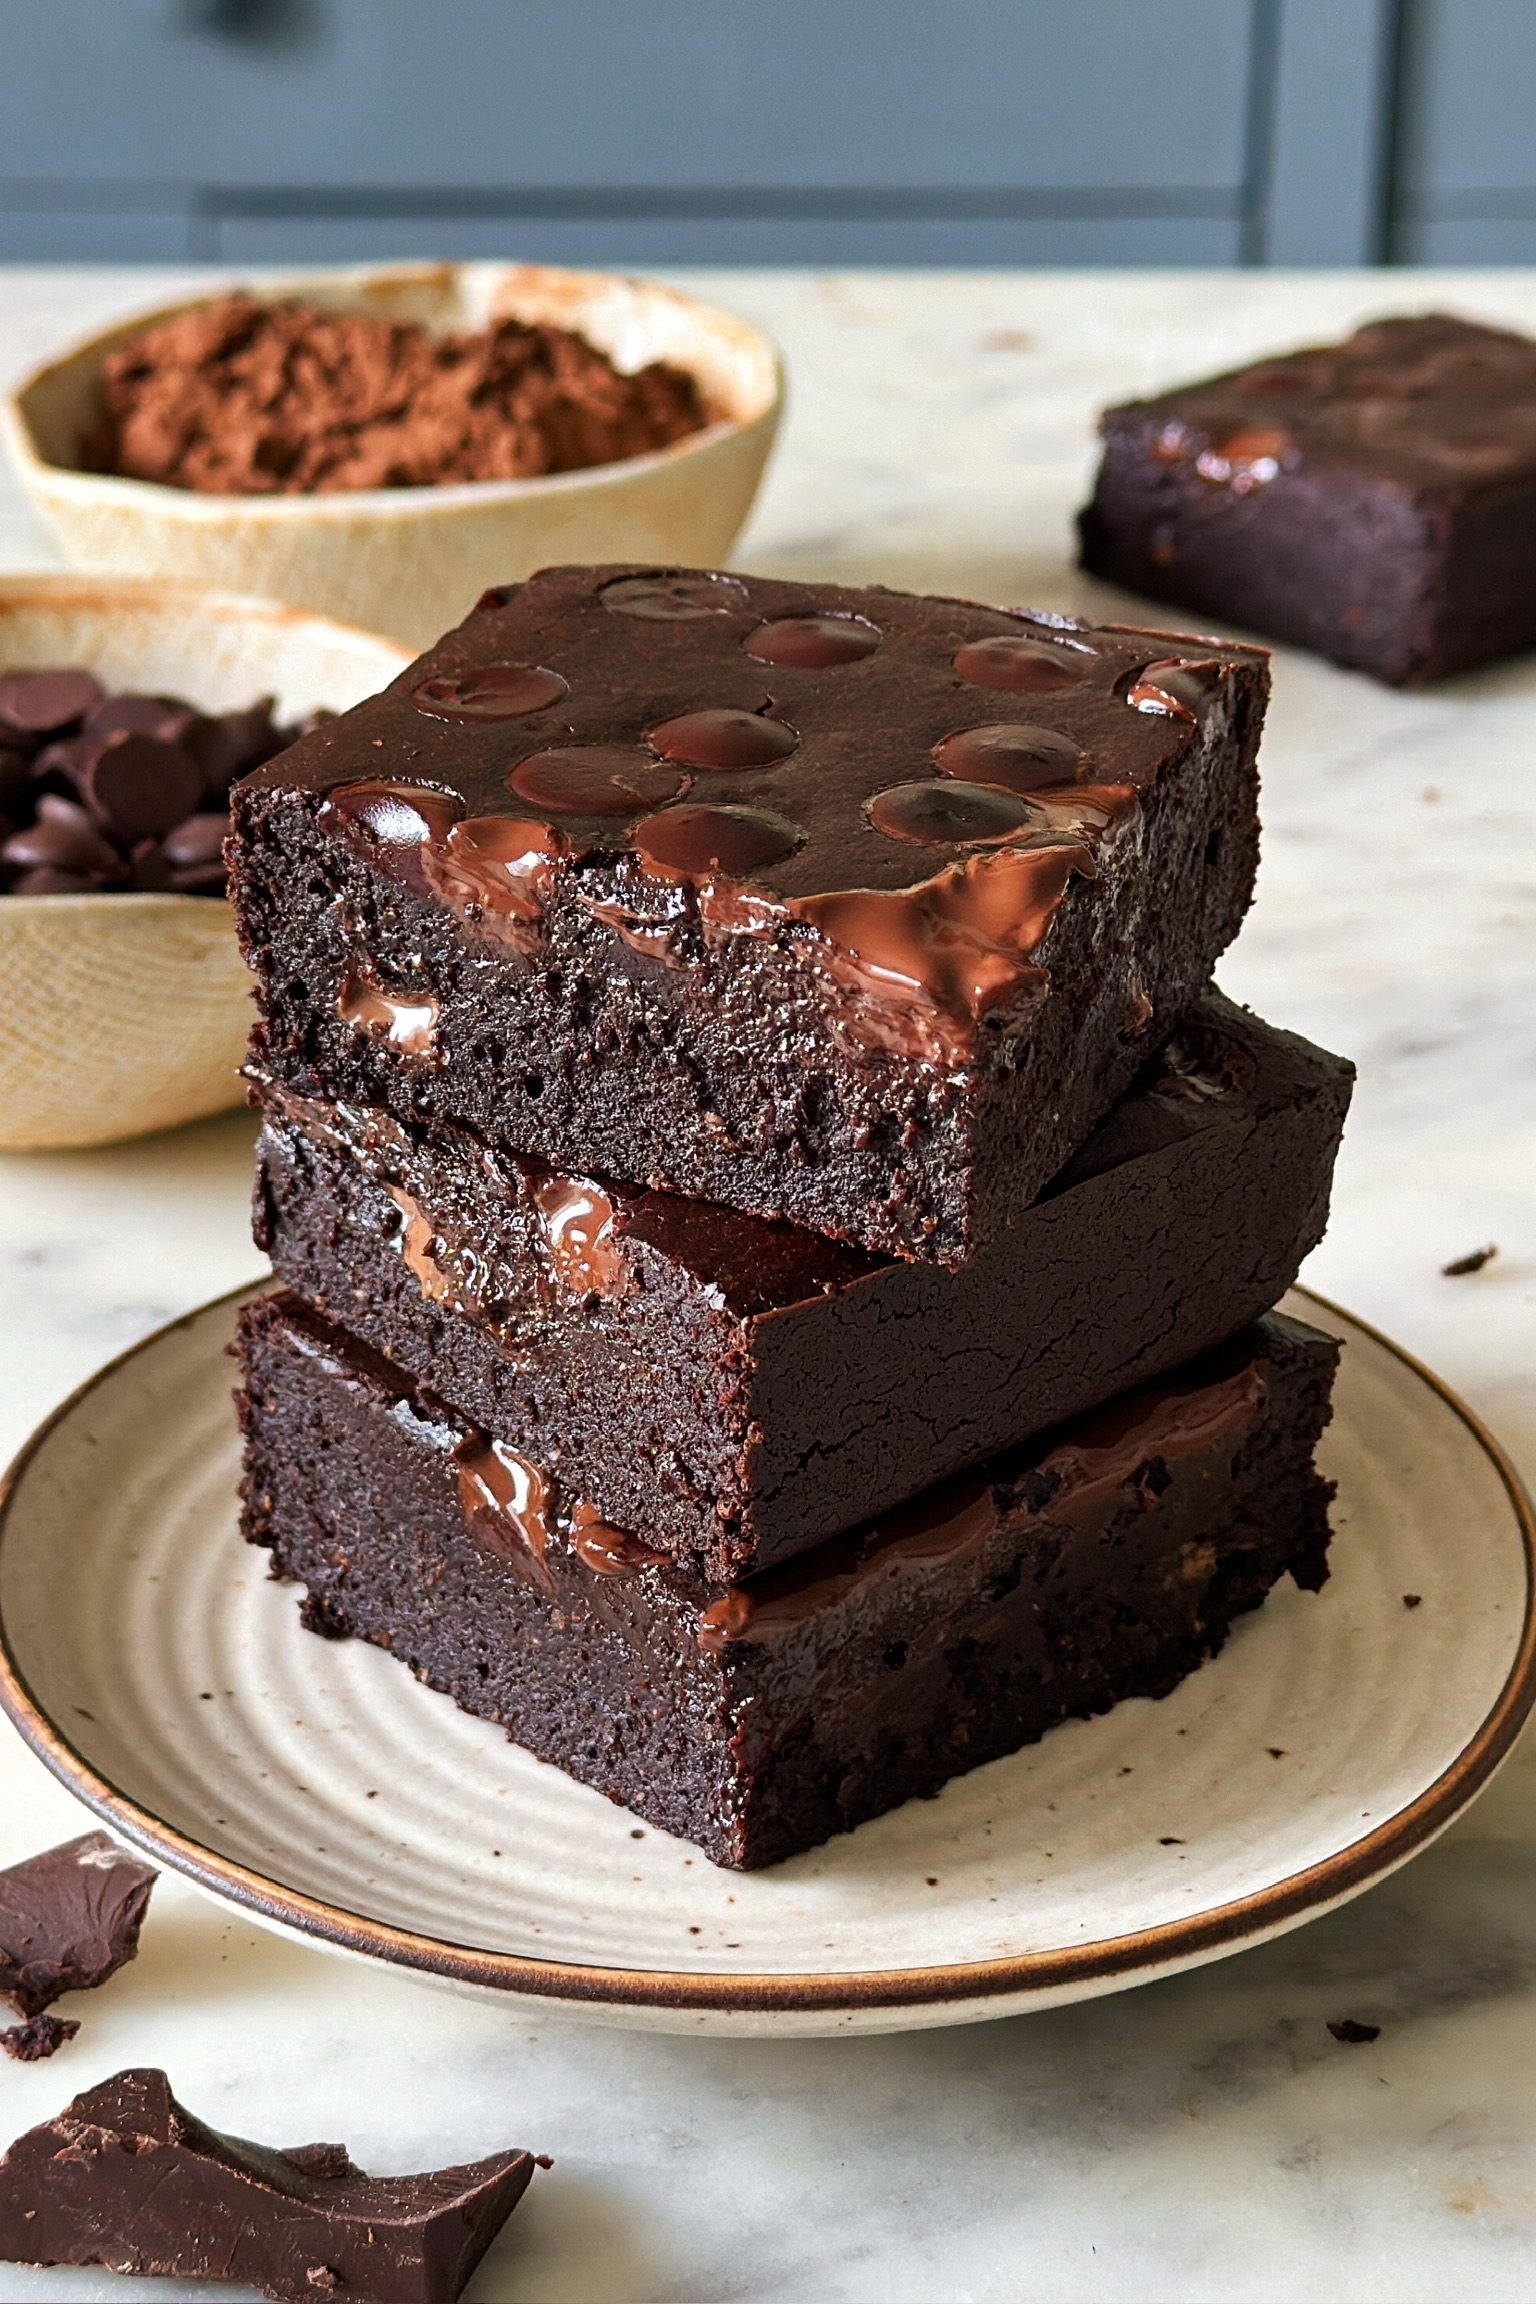
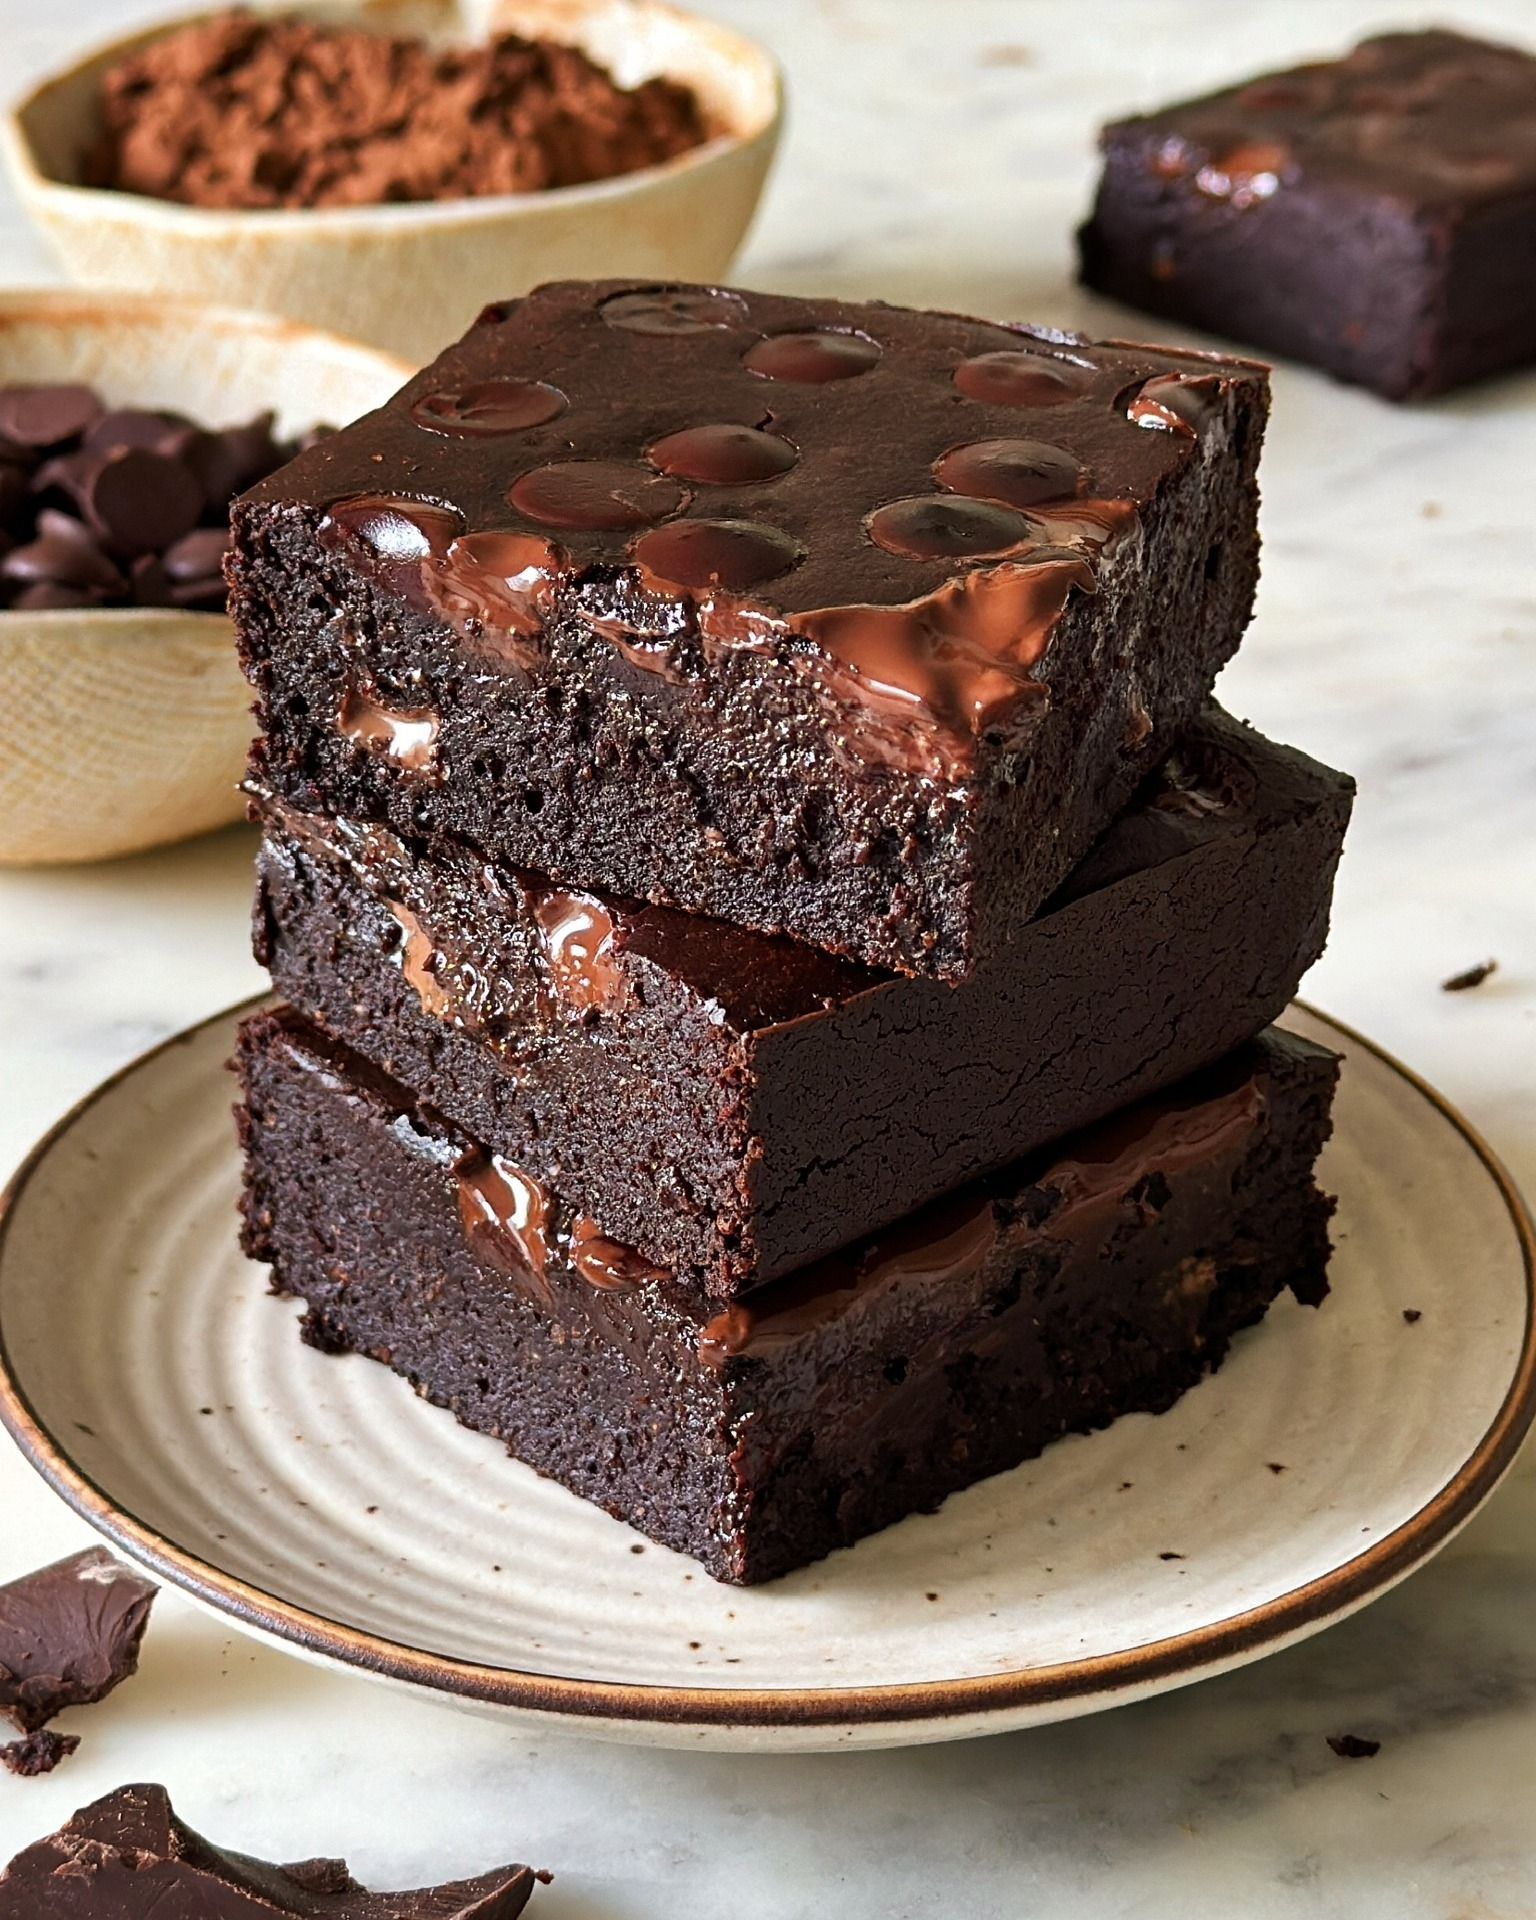
Add CSS

diff --git a/style.css b/style.css
@@ -1,0 +1,35 @@
+body {
+    font-family: Arial, Helvetica, sans-serif;
+    background-color: rgb(21, 6, 122);
+}
+#odin-recipes {
+    text-align: center;
+    font-size: 50px;
+    color: black;
+}
+#odin-recipes-bg {
+    background-color: rgb(154, 196, 245);
+    border-radius: 16px; /* Curves the background and corners */
+    overflow: hidden; /* Clips any inner content to the curved shape */
+    width: 400px;
+    margin: 0 auto;
+    margin-top: 50px;
+}
+#images {
+    text-align: center;
+}
+#images img {
+    margin: 50px 40px;
+    height: 300px;
+    border-radius: 20px;
+    border: 5px solid rgb(154, 196, 245);
+}
+.text {
+    text-align: center;
+    color: aliceblue;
+    font-size: 20px;
+}
+span {
+    margin-left: 120px;
+    margin-right: 120px;
+}

diff --git a/index.html b/index.html
@@ -4,13 +4,28 @@
     <meta charset="UTF-8">
     <meta name="viewport" content="width=device-width, initial-scale=1.0">
     <title>Odin Recipes</title>
+    <link rel="stylesheet" href="style.css">
 </head>
 <body>
-    <h1>Odin Recipes</h1>
-    <ul>
-        <li><a href="./recipes/pasta.html">Pasta</a></li>
-        <li><a href="./recipes/brownies.html">Brownies</a></li>
-        <li><a href="./recipes/coldcoffee.html">Cold Coffee</a></li>
-    </ul>
+    <div id="odin-recipes-bg">
+        <h1 id="odin-recipes">Odin Recipes</h1>
+    </div>
+    <p class="text">Click the images to view recipes.</p>
+    <div id="images">
+        <a href="./recipes/pasta.html">
+            <img src="./img/pasta.jpg" alt="Delicious White Sause Pasta">
+        </a>
+        <a href="./recipes/brownies.html">
+            <img src="./img/brownies.jpg" alt="Rich Fudgy Chocolate Brownies">
+        </a>
+        <a href="./recipes/coldcoffee.html">
+            <img src="./img/coldcoffee.jpg" alt="Creamy Homemade Cold Coffee">
+        </a>
+    </div>
+    <div class="text">
+        <span id="t1">Pasta</span>
+        <span id="t2">Brownies</span>
+        <span id="t3">Cold Coffee</span>
+    </div>
 </body>
 </html>

diff --git a/recipes/style.css b/recipes/style.css
@@ -1,0 +1,15 @@
+body {
+    font-family: Arial, Helvetica, sans-serif;
+    background-color: rgb(21, 6, 122);
+    color: aliceblue;
+}
+div {
+    background-color: rgb(154, 196, 245);
+    text-align: center;
+}
+img {
+    border-radius: 20px;
+    border: 5px solid rgb(154, 196, 245);
+    height: 500px;
+    margin: 0 auto;
+}

diff --git a/recipes/brownies.html b/recipes/brownies.html
@@ -4,10 +4,11 @@
     <meta charset="UTF-8">
     <meta name="viewport" content="width=device-width, initial-scale=1.0">
     <title>Brownies</title>
+    <link rel="stylesheet" href="./style.css">
 </head>
 <body>
     <h1>Brownies</h1>
-    <img src="../img/brownies.jpg" alt="Rich Fudgy Chocolate Brownies" height="500">
+    <img src="../img/brownies.jpg" alt="Rich Fudgy Chocolate Brownies">
 
     <h2>Description</h2>
     <p><strong>Brownies are the ultimate chocolate indulgence</strong>, combining the richness of a cake with the dense, chewy texture of a cookie. Their crackly top, gooey center, and deep cocoa flavor make them one of the most loved desserts around the world.</p>
@@ -96,8 +97,11 @@
         </li>
     </ol>
 
-    <a href="../index.html">Home</a>
-    <a href="./pasta.html">Pasta</a>
-    <a href="./coldcoffee.html">Cold Coffee</a>
+    <div>
+        <a href="../index.html">Home</a>
+        <a href="./pasta.html">Pasta</a>
+        <a href="./coldcoffee.html">Cold Coffee</a>
+    </div>
+
 </body>
 </html>

diff --git a/recipes/coldcoffee.html b/recipes/coldcoffee.html
@@ -4,10 +4,11 @@
     <meta charset="UTF-8">
     <meta name="viewport" content="width=device-width, initial-scale=1.0">
     <title>Cold Coffee</title>
+    <link rel="stylesheet" href="./style.css">
 </head>
 <body>
     <h1>Cold Coffee</h1>
-    <img src="../img/coldcoffee.jpg" alt="Creamy Homemade Cold Coffee" height="500">
+    <img src="../img/coldcoffee.jpg" alt="Creamy Homemade Cold Coffee">
 
     <h2>Description</h2>
     <p><strong>Cold coffee is the perfect blend of refreshment and energy</strong>, combining the bold flavor of coffee with the creaminess of milk and the sweetness of sugar. Served ice-cold with a frothy top, it's an ideal drink for hot summer days or whenever you need a delicious caffeine boost.</p>
@@ -82,8 +83,11 @@
         </li>
     </ol>
 
-    <a href="../index.html">Home</a>
-    <a href="./pasta.html">Pasta</a>
-    <a href="./brownies.html">Brownies</a>
+    <div>
+        <a href="../index.html">Home</a>
+        <a href="./pasta.html">Pasta</a>
+        <a href="./brownies.html">Brownies</a>
+    </div>
+
 </body>
 </html>

diff --git a/recipes/pasta.html b/recipes/pasta.html
@@ -4,10 +4,11 @@
     <meta charset="UTF-8">
     <meta name="viewport" content="width=device-width, initial-scale=1.0">
     <title>Pasta</title>
+    <link rel="stylesheet" href="./style.css">
 </head>
 <body>
     <h1>Pasta</h1>
-    <img src="../img/pasta.jpg" alt="Delicious White Sause Pasta" height="500">
+    <img src="../img/pasta.jpg" alt="Delicious White Sause Pasta">
 
     <h2>Description</h2>
     <p><strong>Pasta is culinary magic</strong> born from just flour and water. Rolled, twisted, or stuffed, this Italian masterpiece transforms into hundreds of playful shapes like pockets, tubes, and ribbons. It acts as a blank canvas, perfectly catching everything from rich, velvety cheeses to fiery tomato sauces, making every single bite a comforting, globetrotting adventure.</p>
@@ -90,8 +91,11 @@
         </li>
     </ol>
 
-    <a href="../index.html">Home</a>
-    <a href="./brownies.html">Brownies</a>
-    <a href="./coldcoffee.html">Cold Coffee</a>
+    <div>
+        <a href="../index.html">Home</a>
+        <a href="./brownies.html">Brownies</a>
+        <a href="./coldcoffee.html">Cold Coffee</a>
+    </div>
+
 </body>
 </html>